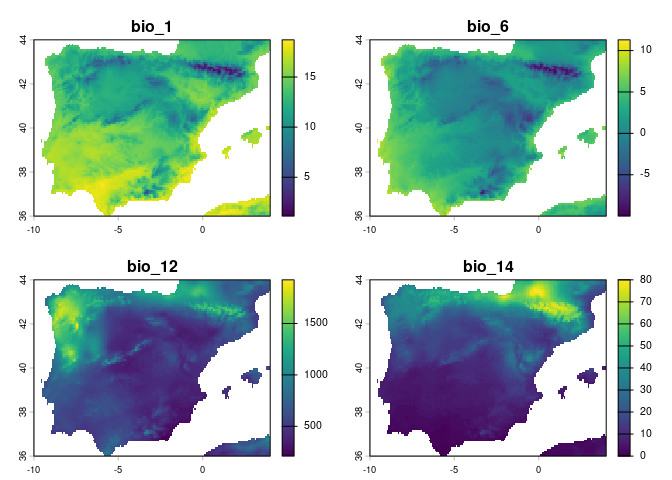
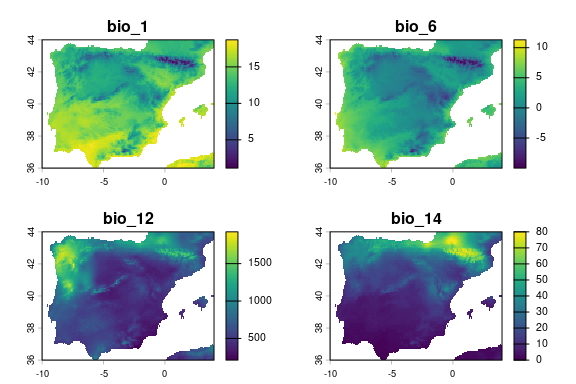
better explain Domain truncation with test data

diff --git a/README.md b/README.md
@@ -51,7 +51,7 @@ vars <- terra::crop(vars, terra::ext(-10, 4, 36, 44))  # xmin, xmax, ymin, ymax
 terra::plot(vars)
 ```
 
-<img src="man/figures/README-usage-1.png" alt="" width="100%" />
+<img src="man/figures/README-usage-1.png" alt="" width="500px" style="display: block; margin: auto;" />
 
 ``` r
 
@@ -73,7 +73,7 @@ terra::plot(vars[[1]] * 0, col = "tan", background = "lightblue",
 points(occs, pch = 20, cex = 0.2)
 ```
 
-<img src="man/figures/README-usage-2.png" alt="" width="100%" />
+<img src="man/figures/README-usage-2.png" alt="" width="500px" style="display: block; margin: auto;" />
 
 ### Extract environmental values at the presence points
 
@@ -104,7 +104,7 @@ par(mfrow = c(2, 2), mar = c(2, 2, 2, 1))
 proniche::freqPlot(vals, vars)
 ```
 
-<img src="man/figures/README-freqPlot-1.png" alt="" width="100%" />
+<img src="man/figures/README-freqPlot-1.png" alt="" width="700px" style="display: block; margin: auto;" />
 
 ### Fit true presence-only models
 
@@ -237,8 +237,16 @@ plot(c(bc_pred_trunc, ch_pred_trunc, dm_pred_trunc,
 
 <img src="man/figures/README-truncation-1.png" alt="" width="100%" />
 
-Note that, in the case of Domain, all occurrence observations have
-maximum similarity. A test dataset can be used instead:
+As shown above, truncation works well for most methods based on the
+proportion of known presences correctly classified. The exception is
+Domain, because it classifies similarity to any of the presences. Thus,
+every presence has a similarity value of 1, because it is equal at least
+to itself. It is not possible in this case to set a threshold that
+correctly classifies a given proportion of presences, because they will
+all always be correctly classified. A workaround is to define the
+threshold using test data, for example from a buffer around the presence
+points. This way we have a range of climatic similarity values in the
+spatial vicinity of the presences and we can choose a threshold:
 
 ``` r
 buf <- buffer(terra::vect(occs), 1000)
@@ -248,7 +256,7 @@ dm_pred_trunc_test <- predict(dm_fit_trunc_test, vars, type = "truncated")
 plot(dm_pred_trunc_test, main = "Domain truncated from test data")
 ```
 
-<img src="man/figures/README-trunc_test-1.png" alt="" width="100%" />
+<img src="man/figures/README-trunc_test-1.png" alt="" width="500px" style="display: block; margin: auto;" />
 
 ### Ensemble predictions
 
@@ -309,7 +317,7 @@ pROC::plot.roc(proc, print.auc = TRUE, auc.polygon = TRUE,
                max.auc.polygon = TRUE)
 ```
 
-<img src="man/figures/README-modev-1.png" alt="" width="100%" />
+<img src="man/figures/README-modev-1.png" alt="" width="700px" style="display: block; margin: auto;" />
 
 ``` r
 # we can also compute the partial ROC ratio under a maximum potential error:
@@ -320,5 +328,5 @@ procratio <- kuenm::kuenm_proc(occ.test = occs,
 
 procratio$pROC_summary
 #> Mean_AUC_ratio_at_5%            pval_pROC 
-#>             1.422413             0.000000
+#>             1.426779             0.000000
 ```
